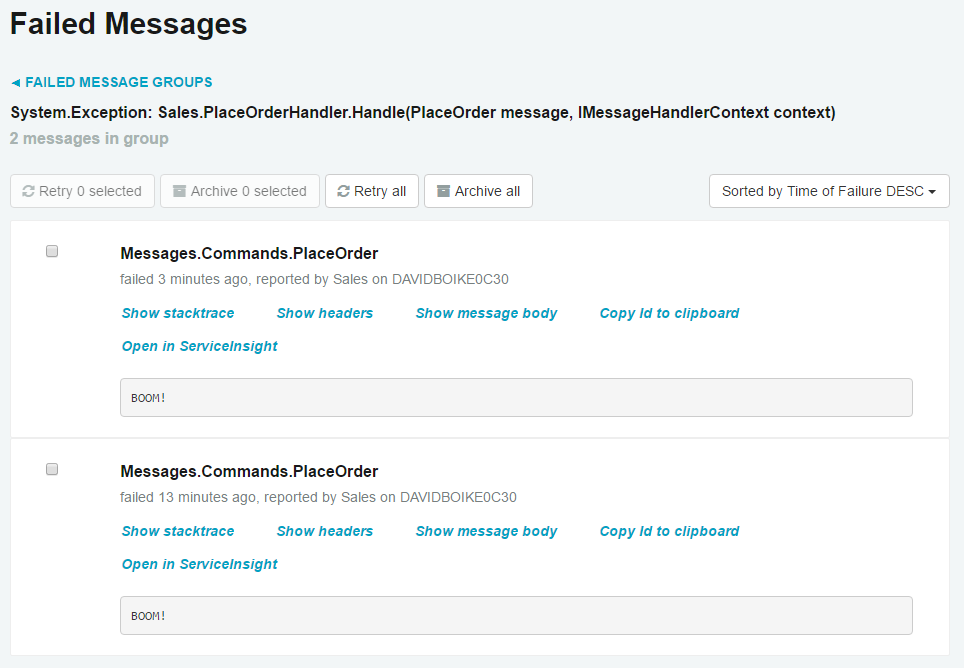
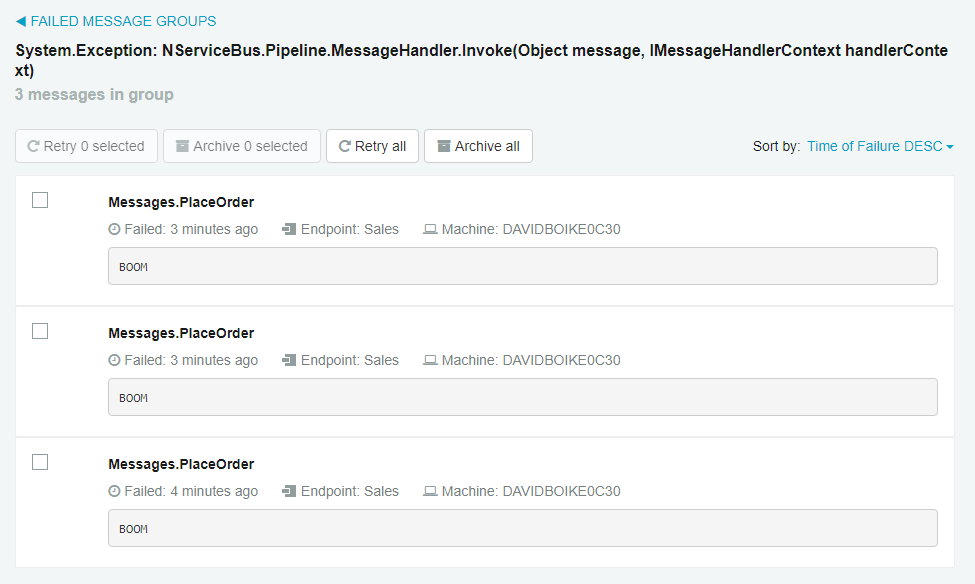
Update intro tutorial to match new ServicePulse. Fixes #2738.

diff --git a/tutorials/intro-to-nservicebus/5-retrying-errors/tutorial.md b/tutorials/intro-to-nservicebus/5-retrying-errors/tutorial.md
@@ -226,9 +226,11 @@ Because we installed ServiceControl and ServicePulse earlier, we can attempt to 
  1. Run the solution.
  1. Open ServicePulse at `http://localhost:9090` and navigate to the **Failed Messages** page. Note how similar messages are grouped together for easier handling.
     ![Failed Message Groups](failed-message-groups.png)
- 1. Click the **View Messages** link to see details on each failed message.
+ 1. Click anywhere in a message group box to see the individual failed messages in the group, including the exception message.
     ![Failed Message Details](failed-message-details.png)
- 1. Try the various methods of replaying messages (**Retry selected** vs. **Retry all**) and watch what happens in the console windows. Note that ServiceControl executes message retry batches on a 30-second timer, so *be patient*. Eventually, the messages will be returned to their appropriate endpoints.
+ 1. Click on an individual message, and you will be able to see the stack trace for the exception, or switch tabs to see the message headers or message body.
+ 1. Click the **Retry message** button and watch what happens in the console windows.
+ 1. You can also back up to the Message Groups view and click **Request retry** to replay all the messages within that group at once! Note that ServiceControl executes message retry batches on a 30-second timer, so *be patient*. Eventually, the messages will be returned to their appropriate endpoints.
 
 When the message is replayed in Sales, each endpoint picks up right where it left off. You should be able to see how useful this capability will be when failures happen in your real-life systems.
 
